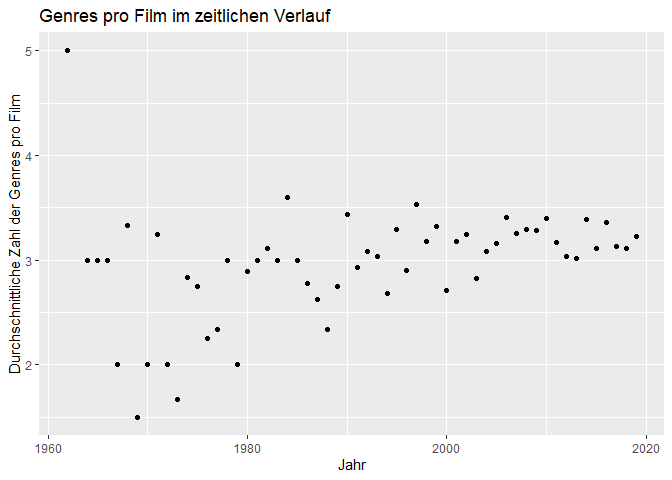
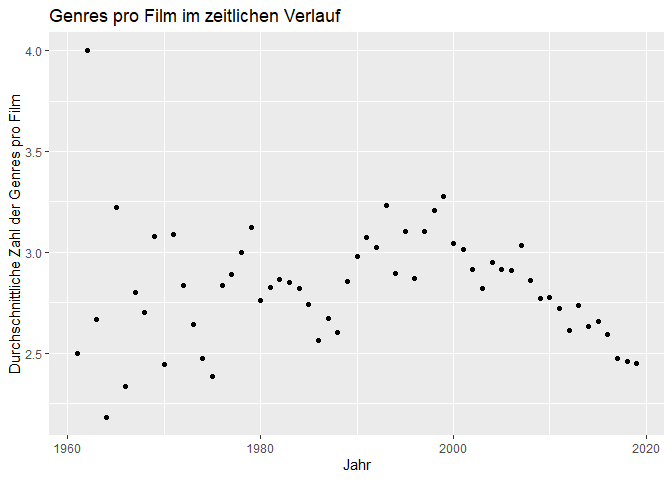
Fixed drop na

diff --git a/Bericht_Henke_Keil_Reichmann.md b/Bericht_Henke_Keil_Reichmann.md
@@ -364,10 +364,11 @@ left_join(year_per_genre, year_genre_total, by = "year") %>%
 
 ![](Bericht_Henke_Keil_Reichmann_files/figure-gfm/unnamed-chunk-7-1.png)<!-- -->
 
-Wir beobachten: Mit zunehmender Jahreszahl gibt es mehr Genres und die
-einzelnen Genres tendieren dazu einen kleineren Anteil auszumachen.
-Zählen wir die Genres pro Jahr erhalten wir einen annährend linearen
-Zusammenhang:
+Trotz (nzw. sogar wegen) des Overplotting sehen wir klar: Mit
+zunehmender Jahreszahl gibt es mehr Genres und die einzelnen Genres
+tendieren dazu einen kleineren Anteil auszumachen, denn die Punkte
+liegen rechts unten im Plot am dichtesten. Zählen wir die Genres pro
+Jahr erhalten wir einen annährend linearen Zusammenhang:
 
 ``` r
 temp <- data %>%
@@ -399,11 +400,11 @@ Film in einem gegebenen Jahr zugeordnet wird:
 
 ``` r
 data %>%
-  drop_na() %>%
   separate_rows(Genre, sep = ", ") %>%
   mutate(year = as.integer(substr(`Release Date`, 8, 12))) %>% 
   select(Genre, year, Title) %>% 
   filter(year > 1960 & year < 2020) %>% 
+  drop_na() %>%
   count(Title, year) %>%
   group_by(year) %>% 
   summarise(number = mean(n)) %>% 
@@ -417,10 +418,11 @@ data %>%
 ![](Bericht_Henke_Keil_Reichmann_files/figure-gfm/unnamed-chunk-9-1.png)<!-- -->
 
 Anhand des Plots lässt sich diese Vermutung widerlegen, denn die Zahl
-der Genres ist mehr oder weniger konstant um die drei, lediglich vor
-1980 sieht man etwas stärkere Schwankungen die vermutlich darauf
-zurückzuführen ist, dass in diesen Jahren die Zahl der Filme die
-verfügbar sind relativ klein ist.
+der Genres ist fast immer zwischen 2.5 und .5, lediglich vor 1980 sieht
+man etwas stärkere Schwankungen die vermutlich darauf zurückzuführen
+ist, dass in diesen Jahren die Zahl der Filme die verfügbar sind relativ
+klein ist. In den Filmen der letzten Jahre ist sogar eher ein
+Abwärtstrend erkennbar.
 
 An dieser Stelle ließe sich jetzt eine Analyse des linearen Modells
 anschließen, die beiden “Überflieger”-Genres Drama und Comedy, die sich
